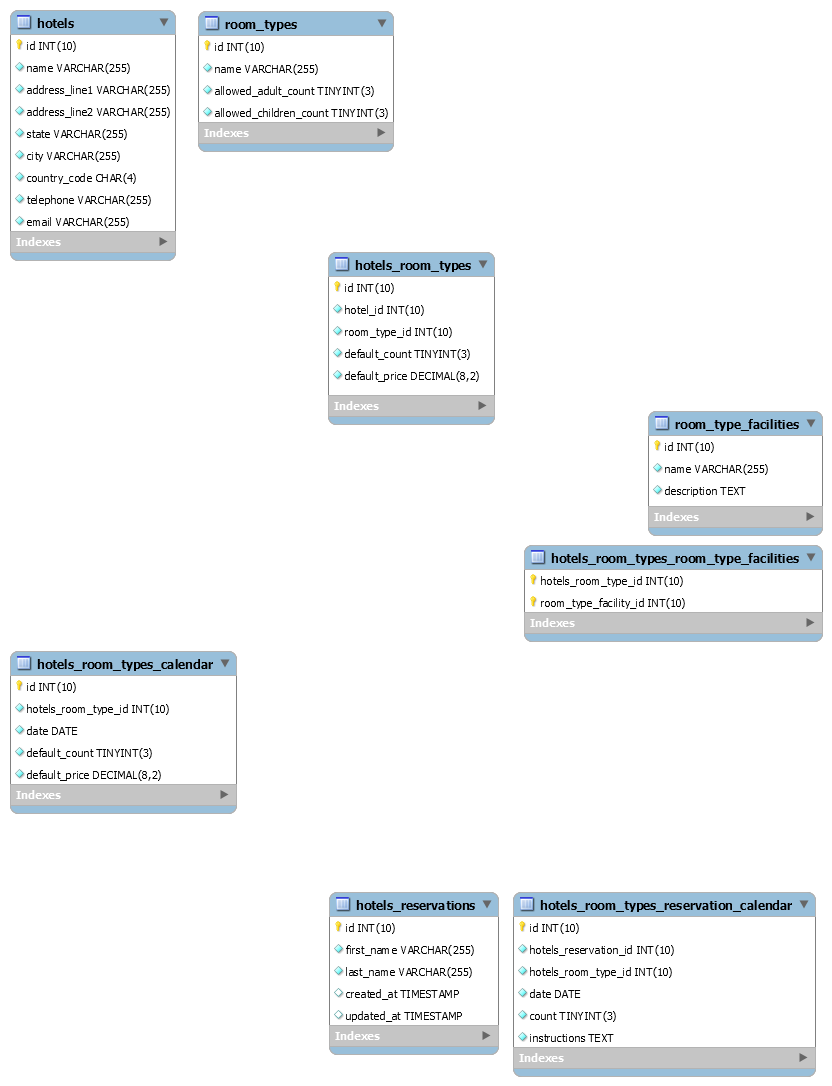
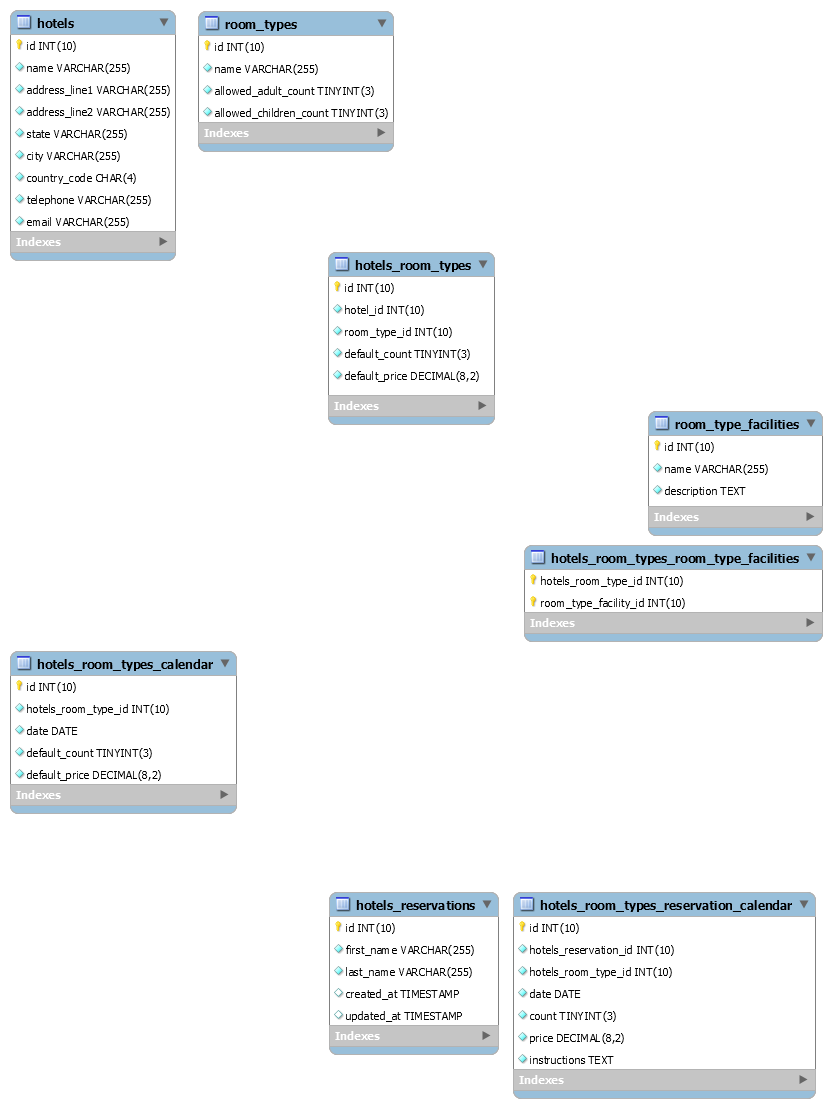
Adding price column for hotels_room_types_reservation_calendar

diff --git a/code/database/migrations/2016_12_01_061638_create_core_tables.php b/code/database/migrations/2016_12_01_061638_create_core_tables.php
@@ -74,6 +74,7 @@ class CreateCoreTables extends Migration
             $table->unsignedInteger('hotels_room_type_id');
             $table->date('date');
             $table->tinyInteger('count')->unsigned();
+            $table->decimal('price');
             $table->text('instructions');
         });
     }
